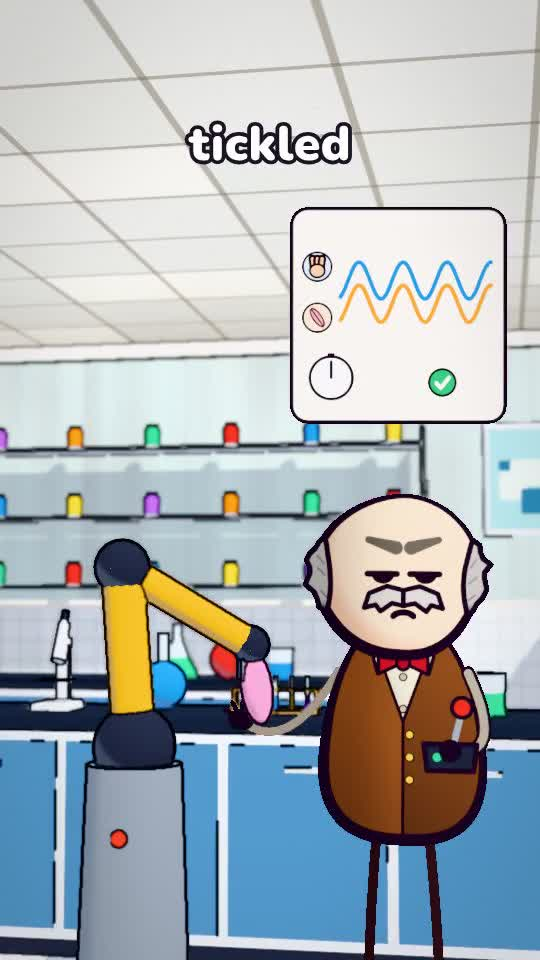
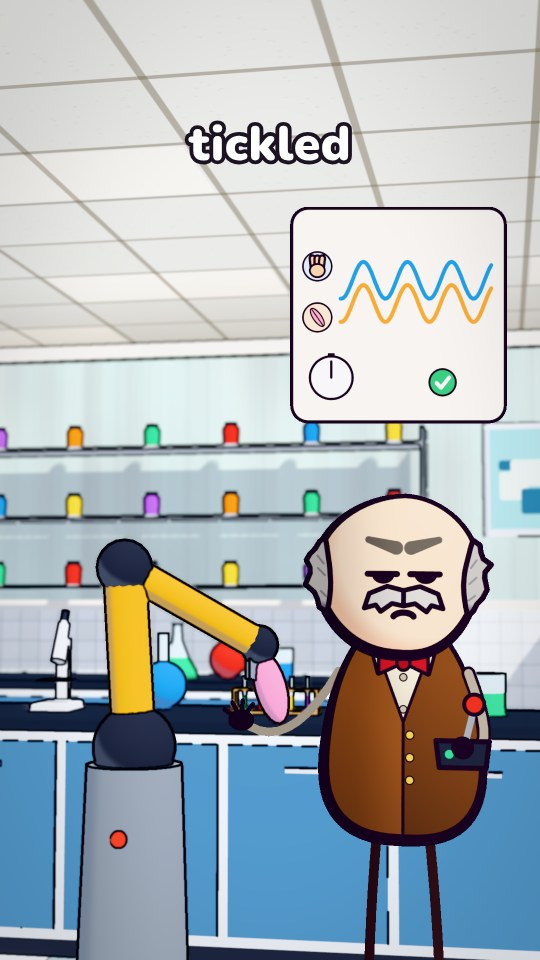
Tickle Stage C cycle 2 re-review: 85/100, no critical failures; final review sheet and screenshots
Claude-Session: https://claude.ai/code/session_01484eGDHiQxzfJwkdTsH3cA

diff --git a/productions/tickle/revision-stageC-review.md b/productions/tickle/revision-stageC-review.md
@@ -1,17 +1,101 @@
 # Tickle revision: Stage C review
 
-**Verdict: not ready for the final render.** Score **75 / 100**, below the 85 target. **One critical failure:** at 0:37 the
+## Cycle 2 re-review (after the nine approved corrections)
+
+**Verdict: 85 / 100, exactly on the target, with no critical failures.** It is ready for your review, not for an
+automatic Stage D. There is no margin: the hook is unchanged and is still the weakest category, and the new sound
+effects (synthesised giggles) have not been heard by a person. I could only measure them. Nothing has been rendered in
+the cloud or published. Run #11 and run #12 are untouched.
+
+### How it was reviewed
+- **The review sheet:** `productions/tickle/review.jpg`, 49 frames, regenerated after the last engine change. The
+  determinism check is identical.
+- **Six preview clips:** in `productions/tickle/preview/`, half size, with the rebuilt soundtrack (shot 14 is a new clip).
+  Each was checked on contact sheets (4-10 fps) and with frame-to-frame change measurements. The robot was also measured
+  by tracking the feather and the control lever in every frame.
+- **The automated checks:**
+  - `npm test` and `npm run test:sound`: pass;
+  - `npm run test:regression`: 9 / 9 reference frames identical, BridgeShort included. No reference needed updating;
+  - preflight: PASS. The soundtrack is -14.1 LUFS, true peak -1.6 dBFS.
+- **Not watched in motion:** shots 1-3, 5-8, 11 and 16 have no preview clip. They were checked only as stills on the
+  review sheet.
+
+### The nine corrections: what changed and how it was checked
+| # | Correction | Result | Evidence |
+|---|---|---|---|
+| 1 | Shot 10: own touch only, meter at zero; the surprise comparison moves to shot 14 | **done.** Shot 10 shows one large body with the predicted (dotted) hand at the armpit. The hand lands on "lands", the tick comes on "predicted", the meter drops on "down", and it sits at zero with a green zero mark on "no tickle". There is no surprise example in this shot. Shot 14 shows the new `contrast` panel: your touch (tick, meter low) above someone else's (?, !, meter high), and the surprise row lights up on "surprise" | clip `shot10-prediction`, `stageC2/e2-...`, clip `shot14-contrast`, `stageC2/e3-...` |
+| 2 | Robot: visible stroke, visible lag, framing | **done.** The feather is bigger and pink, and the tip sweeps 13 cm. The robot sits closer and shots 12-13 are framed medium. Measured: the feather sways about 23 px (half-size standard deviation), 4-9 times more than before. It follows the lever with **0 s lag** in sync and **0.30 s lag** after "delay". The fix that made it visible was a reusable rig change: the old stroke ran toward the lens, so it never showed on screen | clip `shot12-13-robot`, `stageC2/e5-...sync-strip`, `e5-...lag-strip`, `e6-...` |
+| 3 | Gesture easing 0.15-0.4 s, deterministic | **done (previous commit).** Clips 1-6 show no single-frame arm pops; every large frame-to-frame change is a cut, a crossfade or the planned stagger. The `arm snaps` negative test passes | motion measurements, `npm test` |
+| 4 | Diagrams visible from frame one, no blank areas | **done.** The forecast panel starts with the brain and a faded forecast card, which comes up to full strength on "forecast". The prediction and contrast panels are complete from frame one. The delay panel starts with both strokes, each labelled with a hand or a feather icon. The countdown now ticks within the shot | `stageC2/e1-...`, clips |
+| 5 | Shot 4 floating burst | **done.** It is removed, along with the same mark in shot 13. The dizzy stars stay on Milo's head | `stageC2/e4-...` |
+| 6 | Shot 8 framing | **done.** Milo stands next to Juno, on her left so his raised elbow stays in frame, in a medium two-shot | `stageC2/e7-...` |
+| 7 | Shot 11 open book | **done.** New `read` gesture (both hands, eyes down) and an `openBook` item with lines of text. Gus reads it, smiles at "joke" and is deadpan on "punchline" | `stageC2/e8-...` |
+| 8 | Four sound effects | **done, measured but not heard.** `giggle`, `feather_swish`, `servo` and `stumble` were added to the free library and are cued automatically: a tickled actor laughs, an actor staggers, or a machine is driven. They are mixed 13-19 LU under the voice. The cue sheet places them at 12.7 s and 14.0 s (shot 4), on every robot stroke in shots 12-13 (the gap after "delay" follows the lag), and at 54.1 s and 58.4 s (giggles). `test:sound` passes. No paid narration | `audio/Short-tickle.cues.md` |
+| 9 | Polish | **done.** Shots 3 and 6 are widened, so the elbow and the shrug fit. Juno points up at the panels in shots 9, 10 and 14: the point-up gesture is now angled clear of the head, because her hair hid it before. Captions in the diagram shots now sit under the presenter's chin instead of on her forehead (engine: captions keep clear of the face as drawn). Captions also keep clear of a tickle contact point | `stageC2/e9-...`, `d1-...` |
+
+Also fixed: the pipeline used to keep an old review sheet after an engine change, because it only checked the
+storyboard. It now marks the sheet stale whenever any engine source file changes, so a stale sheet can never be passed
+with `--reviewed`.
+
+### Scores (cycle 2)
+| Category | Before | Now | Why |
+|---|---|---|---|
+| Hook and retention (15) | 11 | **11** | Unchanged. The relatable question and the attempt on screen within 2 s are good. But the first 1.5 s is still a static pose with crossed arms, and the hook frame has no visual surprise (`stageC2/d2-...`) |
+| Storytelling (15) | 12 | **13** | The arc is complete and the joke-book beat now plays: Gus reads his own joke and stays deadpan. Shot 14 is only 1.8 s, so the comparison is a quick beat rather than a moment |
+| Scientific accuracy (15) | 13 | **14** | The contradiction is gone: every panel matches its words. The robot's 0.30 s delay matches the published study, where a delay of a few hundred milliseconds made self-touch feel ticklish again. One deduction remains: a feather stands in for the study's soft material |
+| Character animation (15) | 10 | **13** | Gestures ease, and the walk ends with a turn. The robot visibly brushes the palm and lags. Gus reads, and Milo squirms and staggers. Deductions: Juno's point is still subtle (a white sleeve against a light wall), and the feather covers Gus's palm, so the palm itself barely shows |
+| Visual storytelling (15) | 10 | **13** | No blank panels, the prediction panel is redesigned and readable, the contrast panel is clear, and in-sync versus delayed now shows in the machine as well as on the panel. Deductions: the delay panel's lower right is empty for about 1.5 s before "instantly", and the shot 14 panel is on screen only 1.8 s |
+| Cinematography (10) | 7 | **8** | Shots 8, 12 and 13 are tighter and shots 3 and 6 fit. Deductions: shot 3 cuts from one full shot of Milo to another, which feels close to a jump cut. Captions in shots 9, 10 and 14 sit low (80 %), close to YouTube's bottom overlay |
+| Audio and narration (10) | 7 | **8** | The narration and its sync are unchanged and exact. The tickle, robot and stumble moments now have sound, mixed under the voice. Not 9 or 10, because no person has heard the synthesised giggle yet, and a voice-like synth can sound artificial |
+| Brand consistency (5) | 5 | **5** | Cast, palette, ink, captions and sets are consistent |
+| **Total** | **75** | **85** | |
+
+### Critical failures
+**None.**
+- The shot 10 contradiction is fixed.
+- No missing or disappearing objects.
+- No arm pops.
+- No flicker.
+- No floating effects.
+- Captions never cover an eye or a mouth, and never cover a diagram.
+- Audio length equals picture length in every clip.
+
+### Remaining defects
+| # | Time | Shot | Defect | Severity | Screenshot |
+|---|---|---|---|---|---|
+| 1 | 0:00.0-0:01.5 | 1 | The hook opens on a static, crossed-arms pose; nothing surprising in the first frame | moderate (retention) | `stageC2/d2-shot01-hook-static.jpg` |
+| 2 | 12.7 s, 54.1 s, 58.4 s | 4, 13, 15 | The synthesised giggle has not been heard by a person. Its level and timing are measured, its character is not | moderate (risk) | (cue sheet) |
+| 3 | 0:55.0-0:56.8 | 14 | The new comparison panel is on screen for only 1.8 s, and the line can't be lengthened without new narration | moderate | `stageC2/e3-...` |
+| 4 | 0:26.0, 0:32.8, 0:55.1 | 9, 10, 14 | Juno's point-up reads only weakly: a white sleeve against the light lab wall | minor | `stageC2/d1-shot09-point-subtle.jpg` |
+| 5 | 0:49.2-0:50.7 | 13 | The delay panel's lower right is empty until the tick on "instantly" | minor | (clip 4) |
+| 6 | 0:26-0:38, 0:55-0:57 | 9, 10, 14 | Captions sit at 80 % height, under the presenter's chin. They are clear of the face and the panel, but close to YouTube's bottom overlay | minor | `stageC2/e1-...` |
+| 7 | 0:08.4 | 3 | The cut from shot 2 (full shot of Milo) to shot 3 (full shot of Milo from another angle) feels close to a jump cut | minor | (review sheet, 249 / 254) |
+| 8 | 0:42-0:55 | 12-13 | The feather covers Gus's palm, so you see the feather on the end of his arm rather than on an open hand | minor | `stageC2/e6-...` |
+| 9 | 0:45-0:55 | 12-13 | A servo and a feather sound play on every stroke (20 times in about 10 s). They are quiet (-18 / -19 LU), but could feel repetitive | minor (risk) | (cue sheet) |
+
+### Ready for the final render?
+**On the scores, yes: 85 / 100 with no critical failures. But it is your call, and I recommend you watch the six clips
+first,** especially `shot04-tickle` and `shot12-13-robot` with sound, to judge the giggle and the robot sounds by ear.
+If either sounds wrong, I can turn them down or off for free and rebuild in minutes. The hook (defect 1) is the one
+place a further change would clearly raise the score. That would be a new opening action, which is a creative choice
+for you. Stage D, the cloud render and publishing all wait for your explicit approval.
+
+---
+
+## Cycle 1 review (for the record; the score that started cycle 2)
+
+**Verdict (cycle 1): not ready for the final render.** Score **75 / 100**, below the 85 target. **One critical failure:** at 0:37 the
 narration and the diagram contradict each other. Nothing has been rendered in the cloud or published. Run #11 and run #12
 are untouched.
 
-## How it was reviewed
+### How it was reviewed
 - **The review sheet:** `productions/tickle/review.jpg`, 49 frames, every shot at its first, middle and last frames.
 - **Five preview clips:** in `productions/tickle/preview/`, half size, with the soundtrack. Each was checked frame by frame on contact sheets (10 and 6 frames per second), with frame-to-frame change measurements to catch pops, teleports and flicker, and with crops of contact points.
 - **The automated checks:** `npm test`, the pixel regression and preflight, all passing (see `revision-stageB.md`).
 
 Passing the automated checks was not taken as visual approval.
 
-## Stage B close-out
+### Stage B close-out
 | Item | Status |
 |---|---|
 | 49-frame review sheet | done (determinism check identical) |
@@ -20,7 +104,7 @@ Passing the automated checks was not taken as visual approval.
 | working tree | clean; everything pushed to `claude/admiring-hopper-kbrb3d` |
 | regression | 9 / 9 reference frames identical, BridgeShort identical |
 
-## Scores
+### Scores
 | Category | Score | Why |
 |---|---|---|
 | Hook and retention (15) | **11** | Relatable question, and Milo tries it on screen within 2 s. But the first 1.5 s is a static pose with crossed arms, and the hook frame has no visual surprise |
@@ -33,7 +117,7 @@ Passing the automated checks was not taken as visual approval.
 | Brand consistency (5) | **5** | Cast, palette, ink, captions and sets consistent throughout |
 | **Total** | **75 / 100** | |
 
-## Critical failures
+### Critical failures
 1. **0:37.0-0:37.9 (shot 10): the narration and the visual contradict each other.**
    - On the words "No surprise, no tickle", the panel adds the *surprise* row: Gus's hand, a "?", the tickle meter jumping to red, and a "!".
    - So the viewer hears "no tickle" while the strongest thing on screen says "big tickle".
@@ -47,7 +131,7 @@ There are no other critical failures:
 - captions are readable and never over a face or a diagram;
 - audio sync is exact.
 
-## The five preview clips
+### The five preview clips
 | Clip | Result | Notes |
 |---|---|---|
 | 1. Shot 4: Gus sneaks up, tickles, Milo reacts, dizzy stars | **pass, with 2 defects** | Gus waits behind Milo, sneaks round on "sneaks", is hidden behind him briefly, steps out on his right and reaches into Milo's side on "Milo". Milo stays deadpan, bursts out laughing 0.35 s later on "laughs", squirms, and staggers away from Gus on "falls". The stars orbit his head, tilted with it. The background is stable. Defects: the "burst" mark floats by the curtain between the heads (0:13, `d4`), and Milo's arms snap from the self-tickle to holding his belly in one frame (0:12.5, `d5a` / `d5b`) |
@@ -56,7 +140,7 @@ There are no other critical failures:
 | 4. Shots 12-13: robot experiment | **pass, with 2 defects** | Gus works the control box with one hand while the robot's feather rests on his open palm. "Delay" makes the panel's two strokes slip apart (stopwatch), and Gus bursts out laughing on "ticklish again". Defects: the feather's brushing stroke (about 3.5 cm) can't be seen at phone size (`d6b`), so "copied them instantly" versus "a tiny delay" is visible only on the panel, not in the machine. Shot 13 frames the robot small (`d6`). The delay panel is empty for 1.2 s at the start (`d3`) |
 | 5. Shot 15: a friend tickles Milo | **pass** | Gus starts tickling on "guaranteed", Milo laughs and squirms on "laugh", hearts on "friend". Contact is visible |
 
-## Every remaining defect
+### Every remaining defect
 | # | Time | Shot | Defect | Severity | Screenshot |
 |---|---|---|---|---|---|
 | 1 | 0:37.0-0:37.9 | 10 | the surprise row (high tickle) appears on "no surprise, no tickle" | **critical** | `stageC/d1-shot10-contradiction.jpg` |
@@ -74,7 +158,7 @@ There are no other critical failures:
 | 13 | 0:18.3 | 6 | the shrug is cropped at the side (validator warning) | minor | `stageC/d10-shot06-shrug.jpg` |
 | 14 | 0:11.5 | 4 | Gus turns from profile to front in one frame when his walk ends | minor (engine-wide) | (clip 1, frames 23-24 at 10 fps) |
 
-## Recommended corrections (they need your approval; several are creative)
+### Recommended corrections (they need your approval; several are creative)
 1. **Shot 10 (critical):** keep the panel on *your own* touch through "No surprise, no tickle", ending on the meter at zero with a highlight. Then either move the surprise contrast to shot 14 ("The surprise is the whole trick.", where it belongs in the script), or show it on "surprise" and fade it before "no tickle".
 2. **Robot (major):**
    - widen the feather's stroke to about 10 cm with a clear swing;
@@ -91,7 +175,7 @@ There are no other critical failures:
 
 **After corrections 1-9** I would expect about 86-89 / 100: animation +3, visual storytelling +3, audio +2, cinematography +1, science +1. Corrections 1, 2 and 3 are the ones the video needs to be ready. None of them needs new narration (no ElevenLabs cost).
 
-## Ready for the final render?
+### Ready for the final render?
 **No.** The shot 10 contradiction is a critical failure, and the score is 75 / 100 against a target of 85. I recommend
 approving corrections 1-9 (or choosing among them). After them come a new review sheet and preview clips, and only then a
 request for Stage D.
